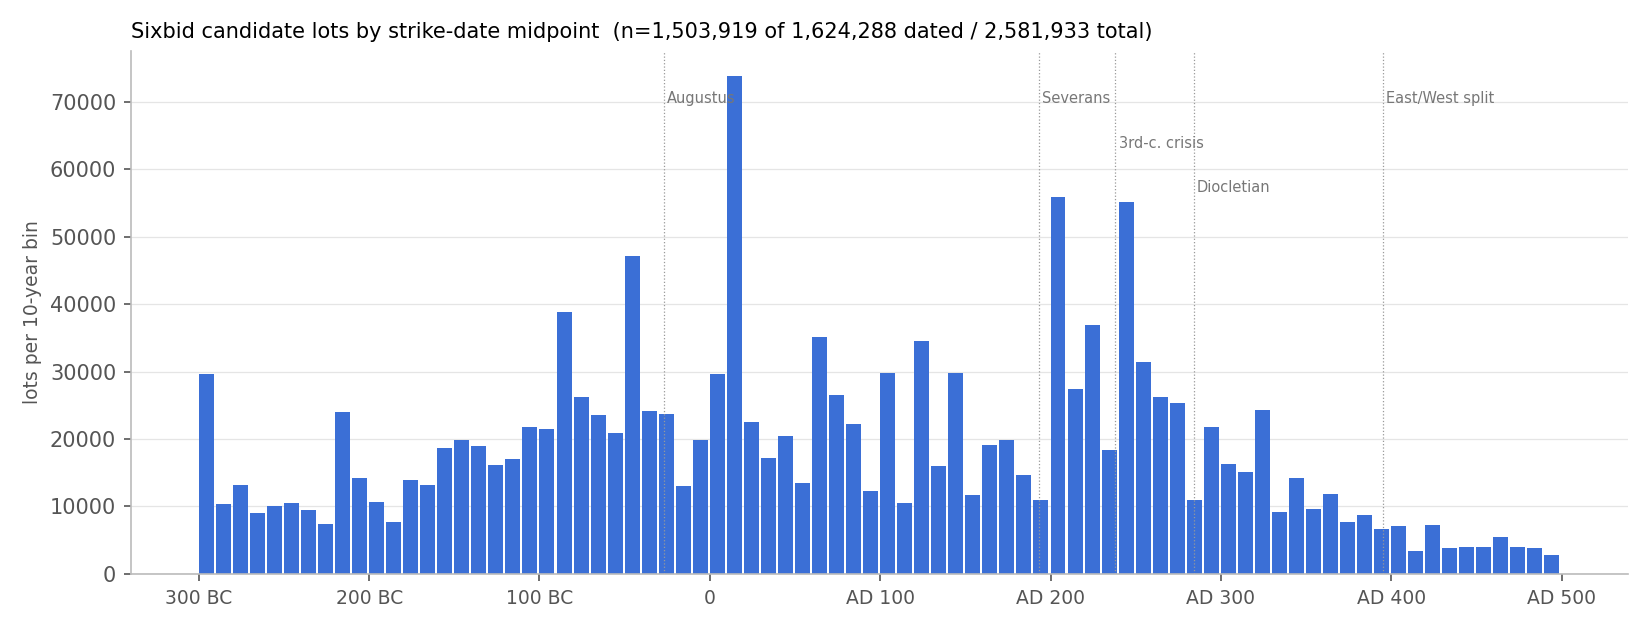
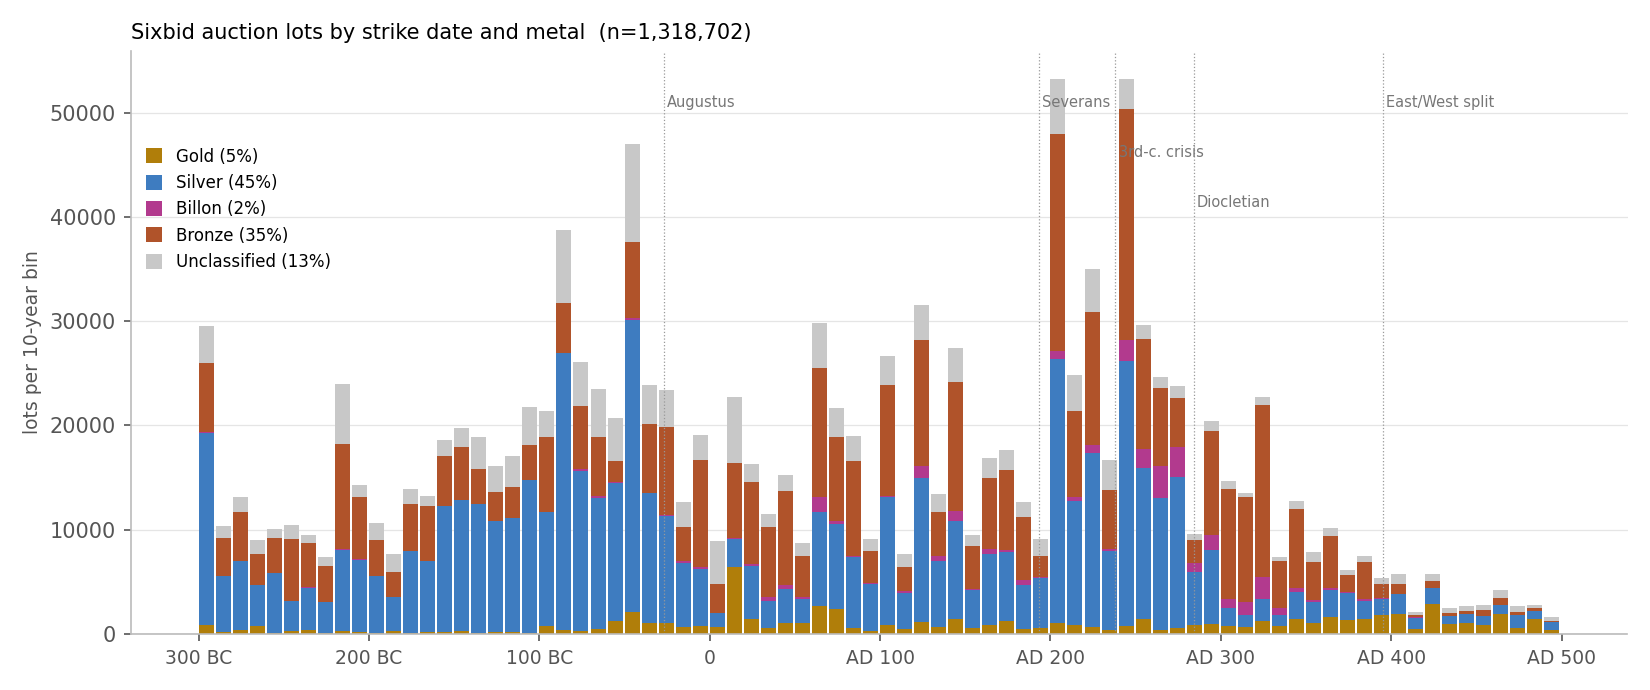
Coins over time: stack bars by metal

diff --git a/pages/coins-over-time/index.html b/pages/coins-over-time/index.html
@@ -14,9 +14,9 @@ a { color: #225; }
 </head>
 <body>
 <h2>Roman coins over time</h2>
-<p>1.5 million auction lots from the <a href="https://www.sixbid-coin-archive.com">Sixbid coin archive</a>, binned by the midpoint of their catalogued strike date (10-year bins, 300 BC to AD 500).</p>
-<img src="coins_over_time.png" alt="Histogram of Sixbid auction lots by strike-date midpoint, 300 BC to AD 500">
-<p>The tall spikes are dating artefacts rather than minting peaks: a coin catalogued only to a reign lands on that reign's midpoint, so Augustus, Trajan, Hadrian, Septimius Severus and Gordian III each produce a single bar.</p>
+<p>1.3 million auction lots from the <a href="https://www.sixbid-coin-archive.com">Sixbid coin archive</a>, binned by the midpoint of their catalogued strike date (10-year bins, 300 BC to AD 500), coloured by metal as read from the lot description.</p>
+<img src="coins_over_time.png" alt="Stacked histogram of Sixbid auction lots by strike-date midpoint and metal (gold, silver, billon, bronze), 300 BC to AD 500">
+<p>The tall spikes are dating artefacts rather than minting peaks: a coin catalogued only to a reign lands on that reign's midpoint, so Augustus, Trajan, Hadrian, Septimius Severus and Gordian III each produce a single bar. Metal comes from a regex over the catalogue text, so about one lot in eight is unclassified, and a little modern-coin noise survives around AD 10-20 where grading statistics like &ldquo;(11/19)&rdquo; were parsed as dates.</p>
 <p><a href="/">← barneyhill.com</a></p>
 </body>
 </html>
